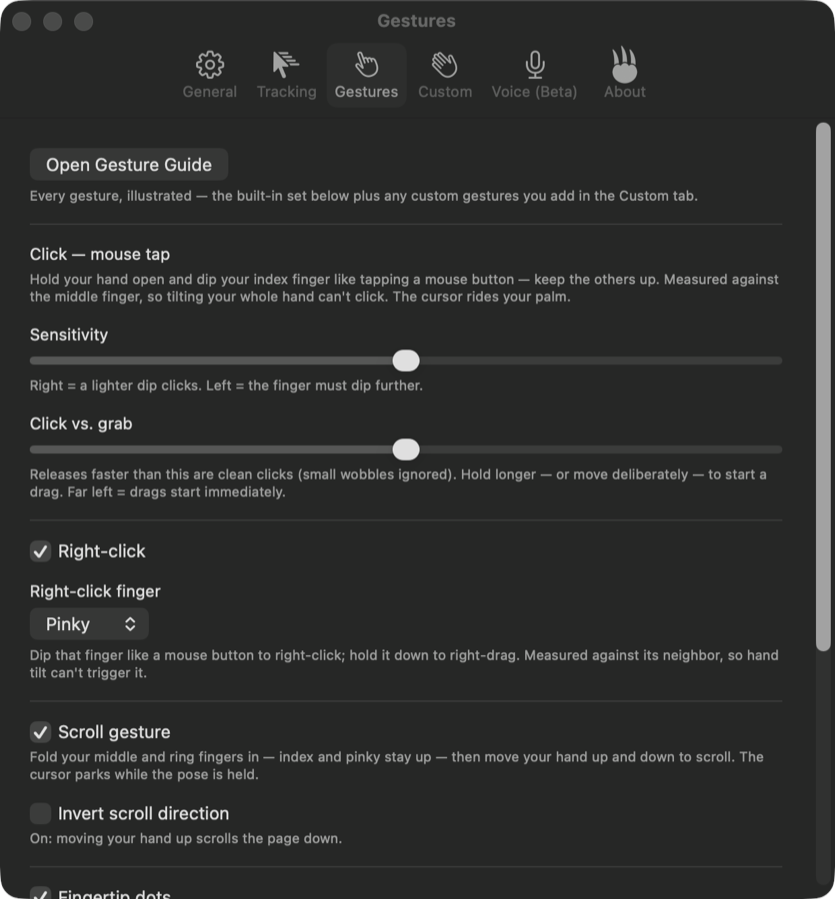
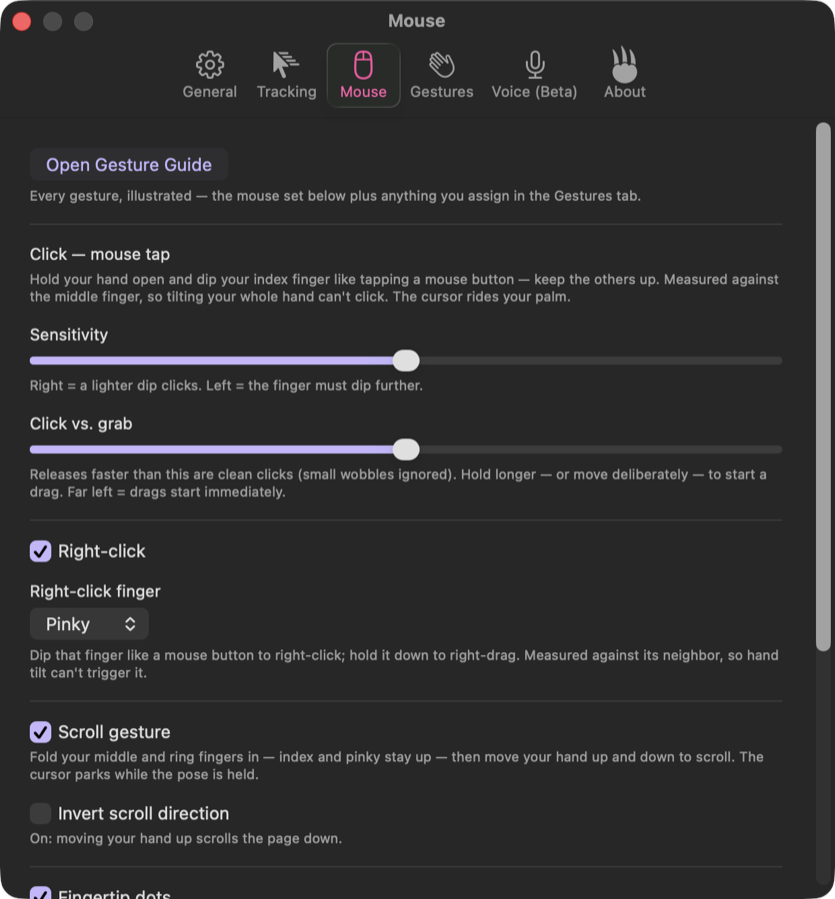
feat(settings): Mouse and Gestures tabs named for what they are, plus a gestures-only mode
- The tab that tunes clicking, scrolling and the cursor is now "Mouse"
  (computermouse symbol); the custom-gesture list is now "Gestures"
  (PAWVIS_OPEN_SETTINGS follows: mouse | gestures). Copy across the app,
  README, site and AGENTS.md moves with them.
- New control trigger: "Never — custom gestures only". The trigger simply
  never arms, so no pointing, clicking or scrolling can happen while the
  hands still fire every assigned gesture (and the tracking-off wave) —
  hands as a remote. Surfaced in Settings → Tracking, reflected in the
  menu bar status line ("Watching for gestures") and the Gesture Guide,
  which swaps its mouse section for an explanatory note in that mode.
- Guide's empty-state blurb no longer advertises the retired swipes.
- Site screenshots refreshed for the renamed tab bar and the claw tab icon.

diff --git a/docs/index.html b/docs/index.html
@@ -182,7 +182,7 @@
           <img class="glyph" src="assets/gestures/grab-up-right.svg" alt="" width="48" height="48" loading="lazy">
         </div>
         <h3>Custom gestures, your actions</h3>
-        <p>Wiggle your fingers at the camera, one hand or both. Hold a fist with the thumb up, down, left or right. Hold a shaka. Bunch your fingertips onto your thumb and fling the bunch toward any edge or corner. Every gesture is listed in <strong>Settings&nbsp;→&nbsp;Custom</strong>, off until you give it an action: switch desktops, snap and move windows, go back or forward, press any shortcut, open any app, run any command. Each row carries its own tuning dials.</p>
+        <p>Wiggle your fingers at the camera, one hand or both. Hold a fist with the thumb up, down, left or right. Hold a shaka. Bunch your fingertips onto your thumb and fling the bunch toward any edge or corner. Every gesture is listed in <strong>Settings&nbsp;→&nbsp;Gestures</strong>, off until you give it an action: switch desktops, snap and move windows, go back or forward, press any shortcut, open any app, run any command. Each row carries its own tuning dials.</p>
         <p class="card-note mono">nothing bound by default · tuning on every gesture · the guide illustrates what you bind</p>
       </article>
 
@@ -202,9 +202,11 @@
       forms, a pulse confirms every click, and small dots mark each detected
       fingertip. The menu bar icon opens a live status panel (hands seen,
       control armed, voice state) plus a Gesture Guide that walks through every
-      move, including the custom ones you bind. The built-in set is tunable in
-      <strong>Settings&nbsp;→&nbsp;Gestures</strong>; the bindable extras live in
-      <strong>Settings&nbsp;→&nbsp;Custom</strong>.
+      move, including the custom ones you bind. The mouse set is tunable in
+      <strong>Settings&nbsp;→&nbsp;Mouse</strong>; the bindable gestures live in
+      <strong>Settings&nbsp;→&nbsp;Gestures</strong> — and Settings&nbsp;→&nbsp;Tracking
+      can switch the mouse off entirely, leaving your hands as a remote that
+      only fires the gestures you assign.
     </p>
 
     <div class="shots" data-reveal>
@@ -213,12 +215,12 @@
         <figcaption>The Gesture Guide ships in the app: every move, drawn as the pose you actually make, custom bindings included.</figcaption>
       </figure>
       <figure class="shot shot-tall">
-        <img src="assets/app-settings-custom.png" alt="The Pawvis Settings window on the Custom tab: every custom gesture listed with a drawing of its pose, a menu naming its action or Not assigned, and a collapsed Tuning section." width="835" height="899" loading="lazy">
-        <figcaption>Settings&nbsp;→&nbsp;Custom. Every gesture listed; give one an action to switch it on, tune it in its row.</figcaption>
+        <img src="assets/app-settings-custom.png" alt="The Pawvis Settings window on the Gestures tab: every custom gesture listed with a drawing of its pose, a menu naming its action or Not assigned, and a collapsed Tuning section." width="835" height="899" loading="lazy">
+        <figcaption>Settings&nbsp;→&nbsp;Gestures. Every gesture listed; give one an action to switch it on, tune it in its row.</figcaption>
       </figure>
       <figure class="shot shot-tall">
-        <img src="assets/app-settings-gestures.png" alt="The Pawvis Settings window on the Gestures tab, with an Open Gesture Guide button, sensitivity and click-vs-grab sliders and toggles for right-click and scroll." width="835" height="899" loading="lazy">
-        <figcaption>Settings&nbsp;→&nbsp;Gestures. Every threshold is a slider, not a guess.</figcaption>
+        <img src="assets/app-settings-gestures.png" alt="The Pawvis Settings window on the Mouse tab, with an Open Gesture Guide button, sensitivity and click-vs-grab sliders and toggles for right-click and scroll." width="835" height="899" loading="lazy">
+        <figcaption>Settings&nbsp;→&nbsp;Mouse. Every threshold is a slider, not a guess.</figcaption>
       </figure>
       <figure class="shot shot-small">
         <img src="assets/app-menu.png" alt="The Pawvis menu bar panel: a tracking switch, 'No hands in view', 'Voice control (beta) off', and buttons for Settings, Gesture Guide and Quit." width="600" height="316" loading="lazy">

diff --git a/Sources/Pawvis/UI/GestureGuideView.swift b/Sources/Pawvis/UI/GestureGuideView.swift
@@ -21,7 +21,11 @@ struct GestureGuideView: View {
                 Text("Face the camera with one hand up. The claw is your cursor; the dots are your fingertips.")
                     .foregroundStyle(.secondary)
 
-                section("Pointing & Clicking", rows: pointingRows)
+                if store.settings.gestures.controlTrigger == .gesturesOnly {
+                    pointingOffNote
+                } else {
+                    section("Pointing & Clicking", rows: pointingRows)
+                }
                 customGesturesSection
                 section("Voice Control", rows: voiceRows)
             }
@@ -104,6 +108,26 @@ struct GestureGuideView: View {
         return rows
     }
 
+    /// Gestures-only mode: the mouse set is off, and saying so beats listing
+    /// gestures that would do nothing.
+    private var pointingOffNote: some View {
+        VStack(alignment: .leading, spacing: 10) {
+            Text("Pointing & Clicking").font(.title3.bold())
+            VStack(alignment: .leading, spacing: 6) {
+                Text("Mouse control is off: you chose “custom gestures only” under Settings → Tracking. Your hands never move the cursor — they only trigger the gestures below (and the stop-tracking wave).")
+                    .font(.callout)
+                    .foregroundStyle(.secondary)
+                    .fixedSize(horizontal: false, vertical: true)
+                Button("Change in Settings…") {
+                    SettingsRouter.shared.open(.tracking)
+                }
+            }
+            .padding(10)
+            .frame(maxWidth: .infinity, alignment: .leading)
+            .background(RoundedRectangle(cornerRadius: 10).fill(.quaternary.opacity(0.5)))
+        }
+    }
+
     /// The user's bound custom gestures, illustrated like the built-ins —
     /// or, before any exist, a pointer at where to add them.
     @ViewBuilder
@@ -114,12 +138,12 @@ struct GestureGuideView: View {
                 Text("Custom Gestures").font(.title3.bold())
                 HStack(alignment: .top, spacing: 12) {
                     VStack(alignment: .leading, spacing: 6) {
-                        Text("Swipes, finger wiggles, thumbs and grab & fling can each run an action of your choosing: switch desktops, snap windows, press shortcuts, open apps, run commands.")
+                        Text("Finger wiggles, thumb signals, the shaka and grab & fling can each run an action of your choosing: switch desktops, snap windows, press shortcuts, open apps, run commands.")
                             .font(.callout)
                             .foregroundStyle(.secondary)
                             .fixedSize(horizontal: false, vertical: true)
                         Button("Add gestures in Settings…") {
-                            SettingsRouter.shared.open(.custom)
+                            SettingsRouter.shared.open(.gestures)
                         }
                     }
                 }
@@ -136,7 +160,7 @@ struct GestureGuideView: View {
                         detail: "\(binding.gesture.howTo) → \(binding.action?.summary ?? "")")
                 })
                 if !store.settings.customGestures.enabled {
-                    Text("Custom gestures are currently switched off in Settings → Custom.")
+                    Text("Custom gestures are currently switched off in Settings → Gestures.")
                         .font(.caption)
                         .foregroundStyle(.secondary)
                         .fixedSize(horizontal: false, vertical: true)

diff --git a/Sources/Pawvis/UI/SettingsView.swift b/Sources/Pawvis/UI/SettingsView.swift
@@ -117,12 +117,12 @@ struct SettingsView: View {
             TrackingSettingsTab(store: store)
                 .tabItem { Label("Tracking", systemImage: "cursorarrow.motionlines") }
                 .tag(SettingsTab.tracking)
-            GestureSettingsTab(store: store)
-                .tabItem { Label("Gestures", systemImage: "hand.point.up.left") }
-                .tag(SettingsTab.gestures)
+            MouseSettingsTab(store: store)
+                .tabItem { Label("Mouse", systemImage: "computermouse") }
+                .tag(SettingsTab.mouse)
             CustomGesturesTab(store: store)
-                .tabItem { Label("Custom", systemImage: "hand.wave") }
-                .tag(SettingsTab.custom)
+                .tabItem { Label("Gestures", systemImage: "hand.wave") }
+                .tag(SettingsTab.gestures)
             VoiceControlSettingsTab(store: store)
                 .tabItem { Label("Voice (Beta)", systemImage: "mic") }
                 .tag(SettingsTab.voice)
@@ -328,20 +328,22 @@ private struct TrackingSettingsTab: View {
             return "Your hands are tracked whenever tracking is on, but the cursor only follows after you show an open hand — all four fingers up, thumb free. Close your hand into a fist for a moment — or take it out of view — to park the cursor again. A click or drag in progress never lets go, and the claw dims while control is parked."
         case .anyHand:
             return "Any hand the camera sees moves the cursor immediately — no trigger gesture."
+        case .gesturesOnly:
+            return "The mouse is never touched: no pointing, no clicks, no scrolling. Your hands become a remote — only the gestures you've assigned in the Gestures tab (and the stop-tracking wave) do anything."
         }
     }
 }
 
-// MARK: - Gestures
+// MARK: - Mouse
 
-private struct GestureSettingsTab: View {
+private struct MouseSettingsTab: View {
     @ObservedObject var store: SettingsStore
 
     var body: some View {
         SettingsPage {
             VStack(alignment: .leading, spacing: 5) {
                 Button("Open Gesture Guide") { GuideWindow.show() }
-                CaptionText("Every gesture, illustrated — the built-in set below plus any custom gestures you add in the Custom tab.")
+                CaptionText("Every gesture, illustrated — the mouse set below plus anything you assign in the Gestures tab.")
             }
 
             Divider()

diff --git a/Sources/PawvisCore/Gestures/GestureEngine.swift b/Sources/PawvisCore/Gestures/GestureEngine.swift
@@ -56,13 +56,15 @@ public final class GestureEngine {
             if config.controlTrigger != oldValue.controlTrigger {
                 armFrames = 0
                 disarmFrames = 0
-                if config.controlTrigger == .openHand {
-                    // The hand on screen never showed the trigger, so it does
-                    // not get to keep the cursor — or a press — it holds.
+                switch config.controlTrigger {
+                case .openHand, .gesturesOnly:
+                    // The hand on screen never showed the (new) trigger, so
+                    // it does not get to keep the cursor — or a press — it
+                    // holds. `.gesturesOnly` simply never re-arms.
                     pendingEvents = forceRelease(at: lastHandTime)
                     armed = false
-                } else {
-                    armed = true // .anyHand: an in-flight press carries on
+                case .anyHand:
+                    armed = true // an in-flight press carries on
                 }
             }
         }
@@ -459,7 +461,9 @@ public final class GestureEngine {
     /// AGENTS.md; only the *arming* of cursor control is.)
     private func updateTrigger(_ features: HandFeatures?, hand: Hand) {
         guard config.controlTrigger == .openHand else {
-            armed = true
+            // `.anyHand` is always armed; `.gesturesOnly` never is — the
+            // hand is a remote for the custom gestures, never a mouse.
+            armed = config.controlTrigger == .anyHand
             armFrames = 0
             disarmFrames = 0
             return

diff --git a/Sources/PawvisCore/Gestures/GestureConfig.swift b/Sources/PawvisCore/Gestures/GestureConfig.swift
@@ -12,11 +12,16 @@ public enum ControlTrigger: String, Codable, CaseIterable, Sendable {
     /// Any tracked hand controls the cursor immediately (the original
     /// behavior).
     case anyHand
+    /// The cursor is never taken: no pointing, no clicks, no scrolling.
+    /// Hands are still tracked and the custom gestures (and the tracking-off
+    /// wave) still fire — the hands-as-a-remote mode.
+    case gesturesOnly
 
     public var displayName: String {
         switch self {
         case .openHand: return "Open hand"
         case .anyHand: return "Any detected hand"
+        case .gesturesOnly: return "Never — custom gestures only"
         }
     }
 }

diff --git a/Sources/Pawvis/App/PawvisApp.swift b/Sources/Pawvis/App/PawvisApp.swift
@@ -152,7 +152,7 @@ final class AppDelegate: NSObject, NSApplicationDelegate, ObservableObject {
         // nobody and the Install button does nothing.
         updateNotifier.start()
 
-        // PAWVIS_OPEN_SETTINGS=<general|tracking|gestures|voice|about> opens
+        // PAWVIS_OPEN_SETTINGS=<general|tracking|mouse|gestures|voice|about> opens
         // Settings on that tab right after launch. This exists for eyes-on UI
         // verification (AGENTS.md requires looking at the tabs after settings
         // changes, and SwiftUI offers no headless render of them) and it

diff --git a/Sources/PawvisCore/Config/CustomGestureSettings.swift b/Sources/PawvisCore/Config/CustomGestureSettings.swift
@@ -29,7 +29,7 @@ public struct CustomGestureBinding: Codable, Equatable, Sendable, Identifiable {
     }
 }
 
-/// The Settings → Custom section: which extra gestures are bound to which
+/// The Settings → Gestures section: which extra gestures are bound to which
 /// actions, plus the family tuning. Nothing here is on by default — a
 /// gesture without an action is never detected. (Bindings for retired
 /// gestures — the swipes — fail to decode and drop silently, which is the

diff --git a/Sources/Pawvis/UI/CustomGesturesView.swift b/Sources/Pawvis/UI/CustomGesturesView.swift
@@ -35,7 +35,7 @@ struct CustomGesturesTab: View {
 
             VStack(alignment: .leading, spacing: 5) {
                 Button("Open Gesture Guide") { GuideWindow.show() }
-                CaptionText("Gestures you've assigned appear there too, illustrated alongside the built-in set.")
+                CaptionText("Gestures you've assigned appear there too, illustrated alongside the mouse set.")
             }
         }
     }

diff --git a/Sources/Pawvis/UI/MenuContentView.swift b/Sources/Pawvis/UI/MenuContentView.swift
@@ -224,6 +224,9 @@ struct MenuContentView: View {
     }
 
     private var modeText: String {
+        if controller.settingsStore.settings.gestures.controlTrigger == .gesturesOnly {
+            return "Watching for gestures"
+        }
         if controller.grabbing { return "Clicking (pinched)" }
         return controller.controlArmed ? "Pointing" : "Show an open hand to control"
     }

diff --git a/Sources/Pawvis/UI/SettingsRouter.swift b/Sources/Pawvis/UI/SettingsRouter.swift
@@ -5,7 +5,7 @@ import SwiftUI
 /// The Settings window's tabs, named so that code outside SwiftUI can ask for
 /// one by name.
 enum SettingsTab: String, Hashable {
-    case general, tracking, gestures, custom, voice, about
+    case general, tracking, mouse, gestures, voice, about
 }
 
 /// Opens the Settings window on a chosen tab from places that have no SwiftUI

diff --git a/README.md b/README.md
@@ -52,11 +52,13 @@ into a fist for a moment, or take it out of view, to park the cursor again;
 the claw fades while it's parked. That keeps a hand that's merely visible
 (resting, typing, gesturing) from dragging the cursor around. **Settings →
 Tracking** switches back to "Any detected hand" if you'd rather have no
-trigger at all.
+trigger at all, or all the way to **"Never — custom gestures only"**, which
+keeps the mouse untouched entirely: your hands become a remote that only
+fires the gestures you've assigned.
 
 Once you have it, your hand is the mouse: the cursor rides your palm, and your
 fingers are the buttons. Everything below is tunable in **Settings →
-Gestures**.
+Mouse**.
 
 - **Move**: hold your hand open, fingers up, and move it.
 - **Click**: dip your **index finger**, like tapping a mouse button.
@@ -76,7 +78,7 @@ Gestures**.
   sides twice (over and back), hand tracking switches off entirely, the same
   as the menu bar switch. Optional, on by default; the number of crossings is
   a setting under **Settings → Tracking**.
-- **Custom gestures**: **Settings → Custom** lists a library of extra
+- **Custom gestures**: **Settings → Gestures** lists a library of extra
   one-shot gestures, every one of them visible and none of them live until
   you give it an action. Point a hand (or both) at the camera and wiggle
   your fingers, hold a fist with your thumb up, down, or tilted to point

diff --git a/AGENTS.md b/AGENTS.md
@@ -83,7 +83,7 @@ the right — both invisible in code review and obvious to the user.
    There is no headless render: SwiftUI's `ImageRenderer` produces blank
    output for these views without a running app. But the window *can* be
    opened programmatically now — `PAWVIS_OPEN_SETTINGS=<tab>` (general,
-   tracking, gestures, voice, about) opens Settings on that tab right after
+   tracking, mouse, gestures, voice, about) opens Settings on that tab right after
    launch, so `make app` + launch + `screencapture` covers it without
    hand-clicking. Pay attention to the longest strings (the Voice control and
    Tracking tabs have them).
@@ -258,7 +258,9 @@ reaching for an SF Symbol, because the symbols are what taught the wrong
 gesture last time.
 
 **The custom one-shot gestures** (`CustomGestureDetector`; every gesture
-listed in Settings → Custom, none live until given an action) follow the
+listed in Settings → Gestures, none live until given an action; the
+Tracking tab's "custom gestures only" trigger keeps the mouse untouched
+while these still fire) follow the
 same rules plus a few that only real video could teach — every one below
 was a measured failure first, and `--gesture-eval` over the clips in
 question is how they were fixed. Do not retune these from intuition:
